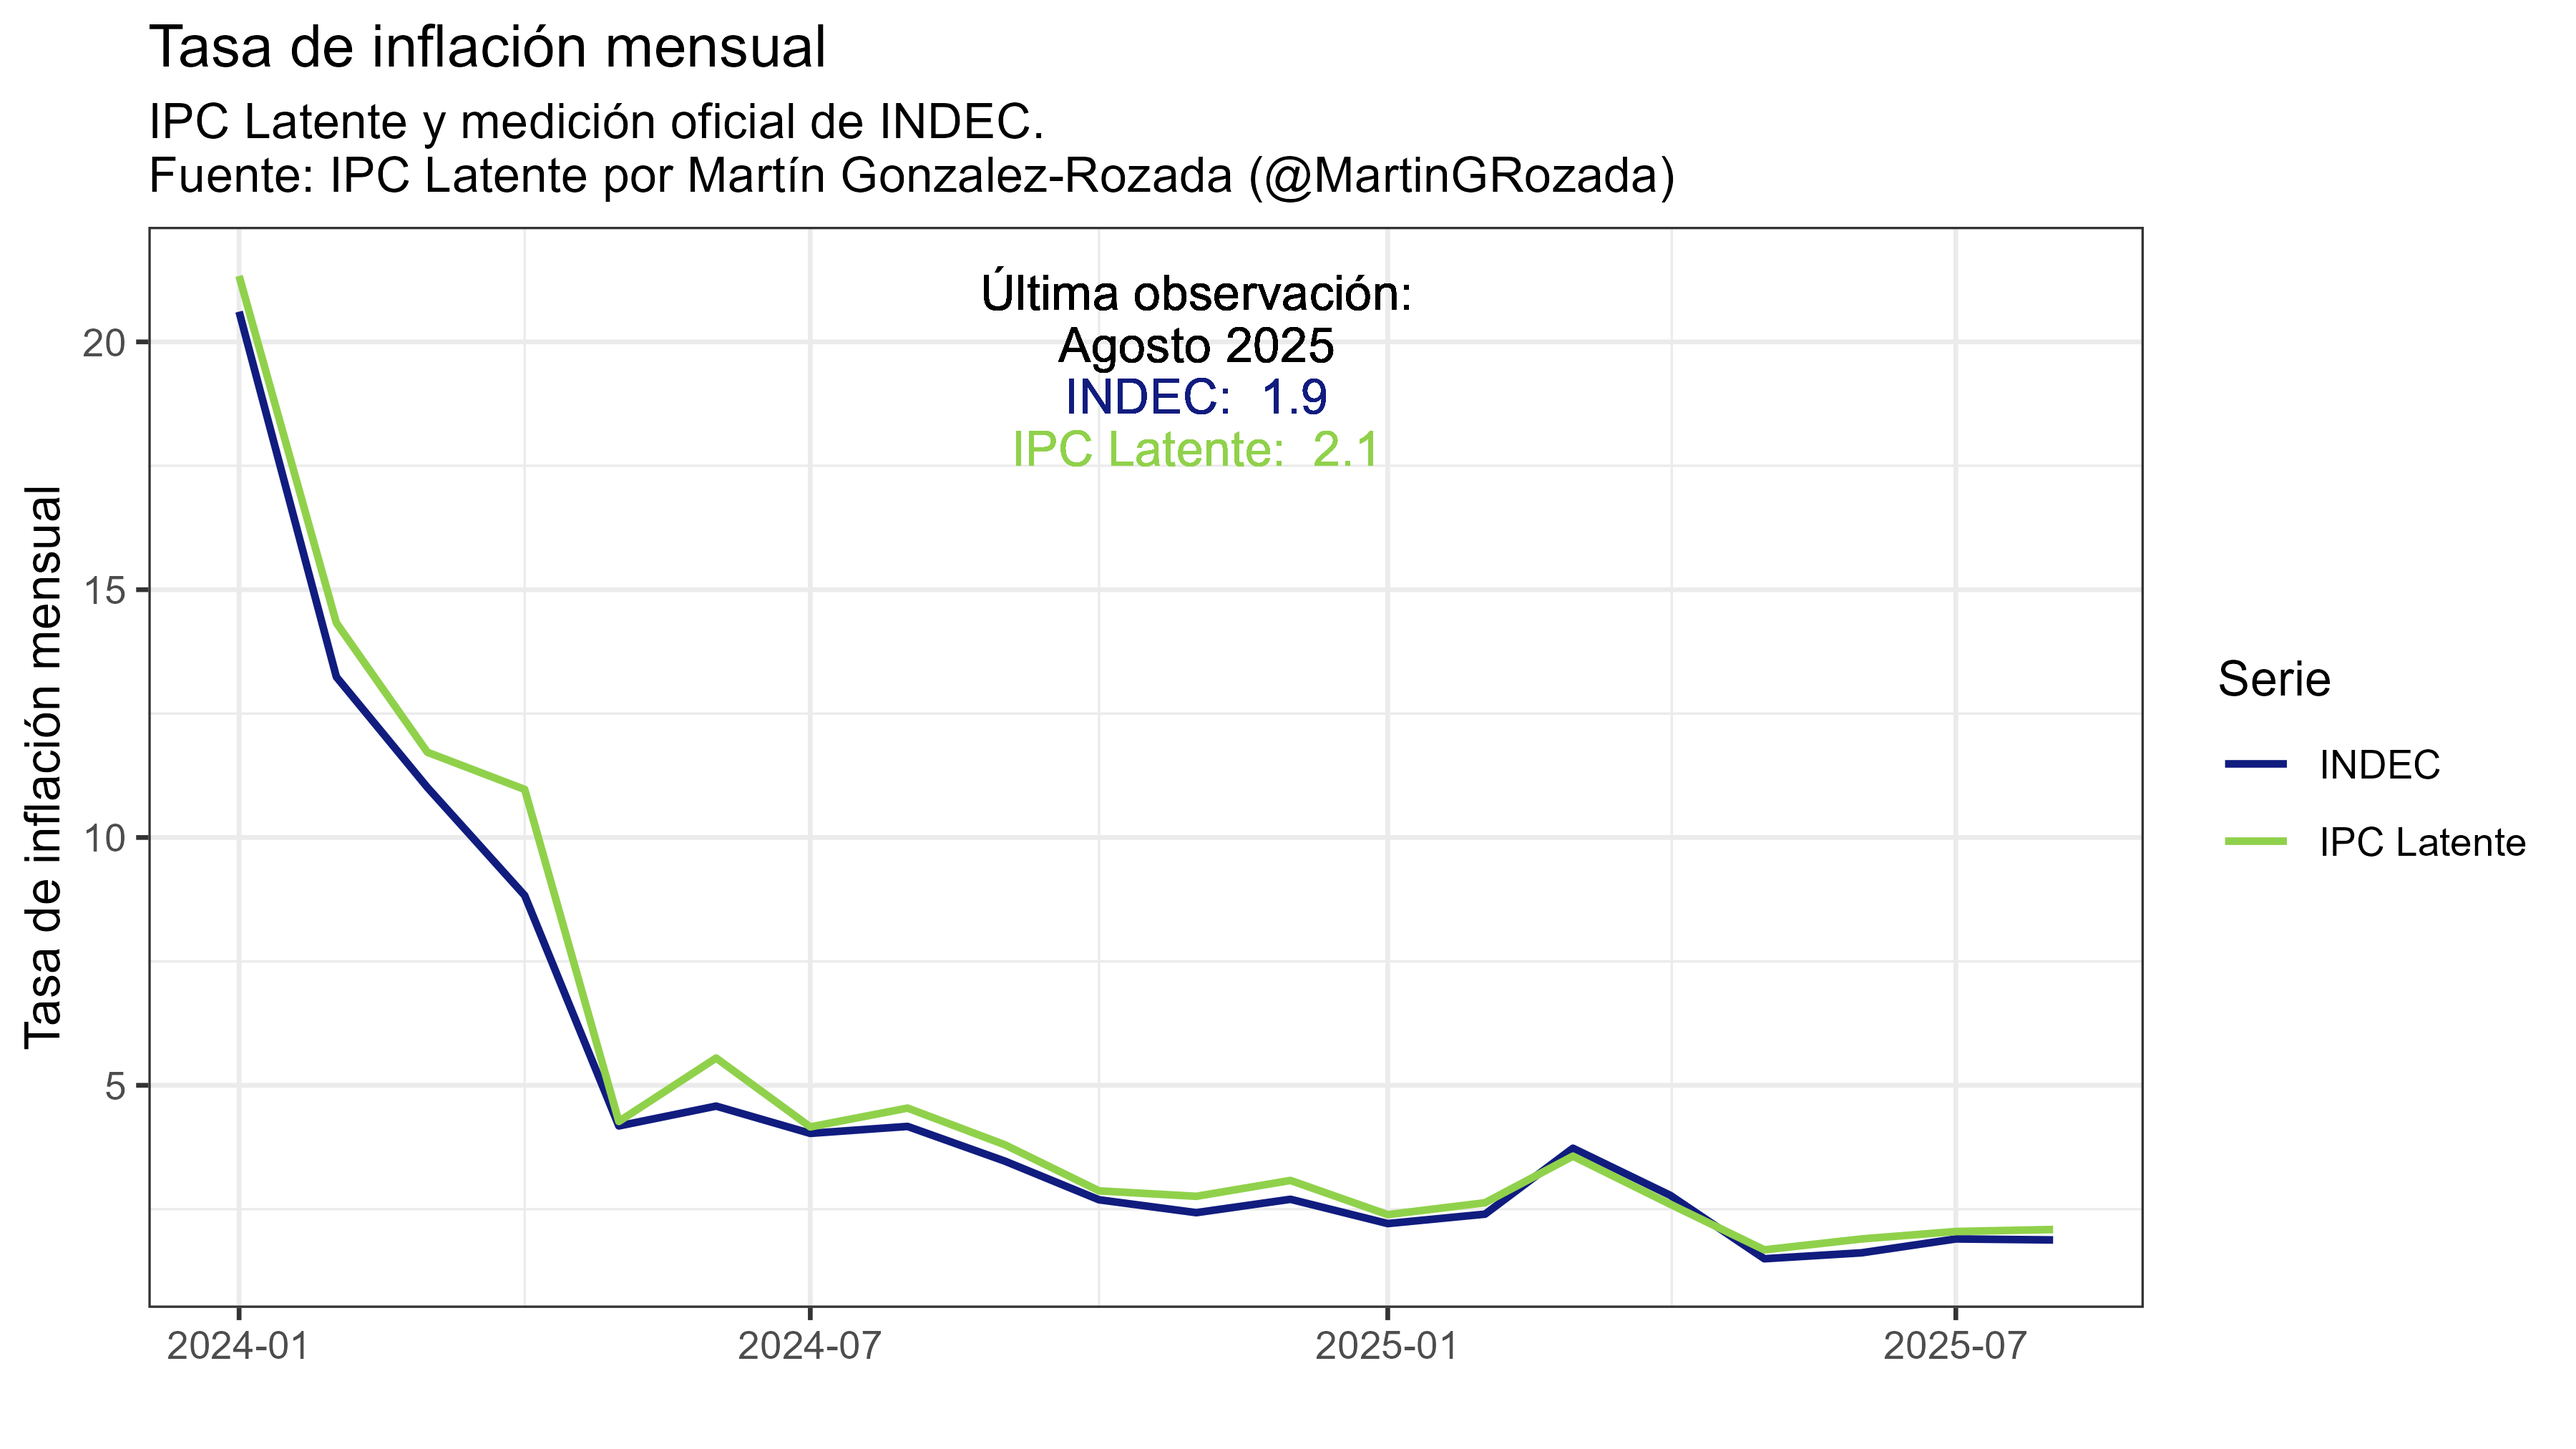
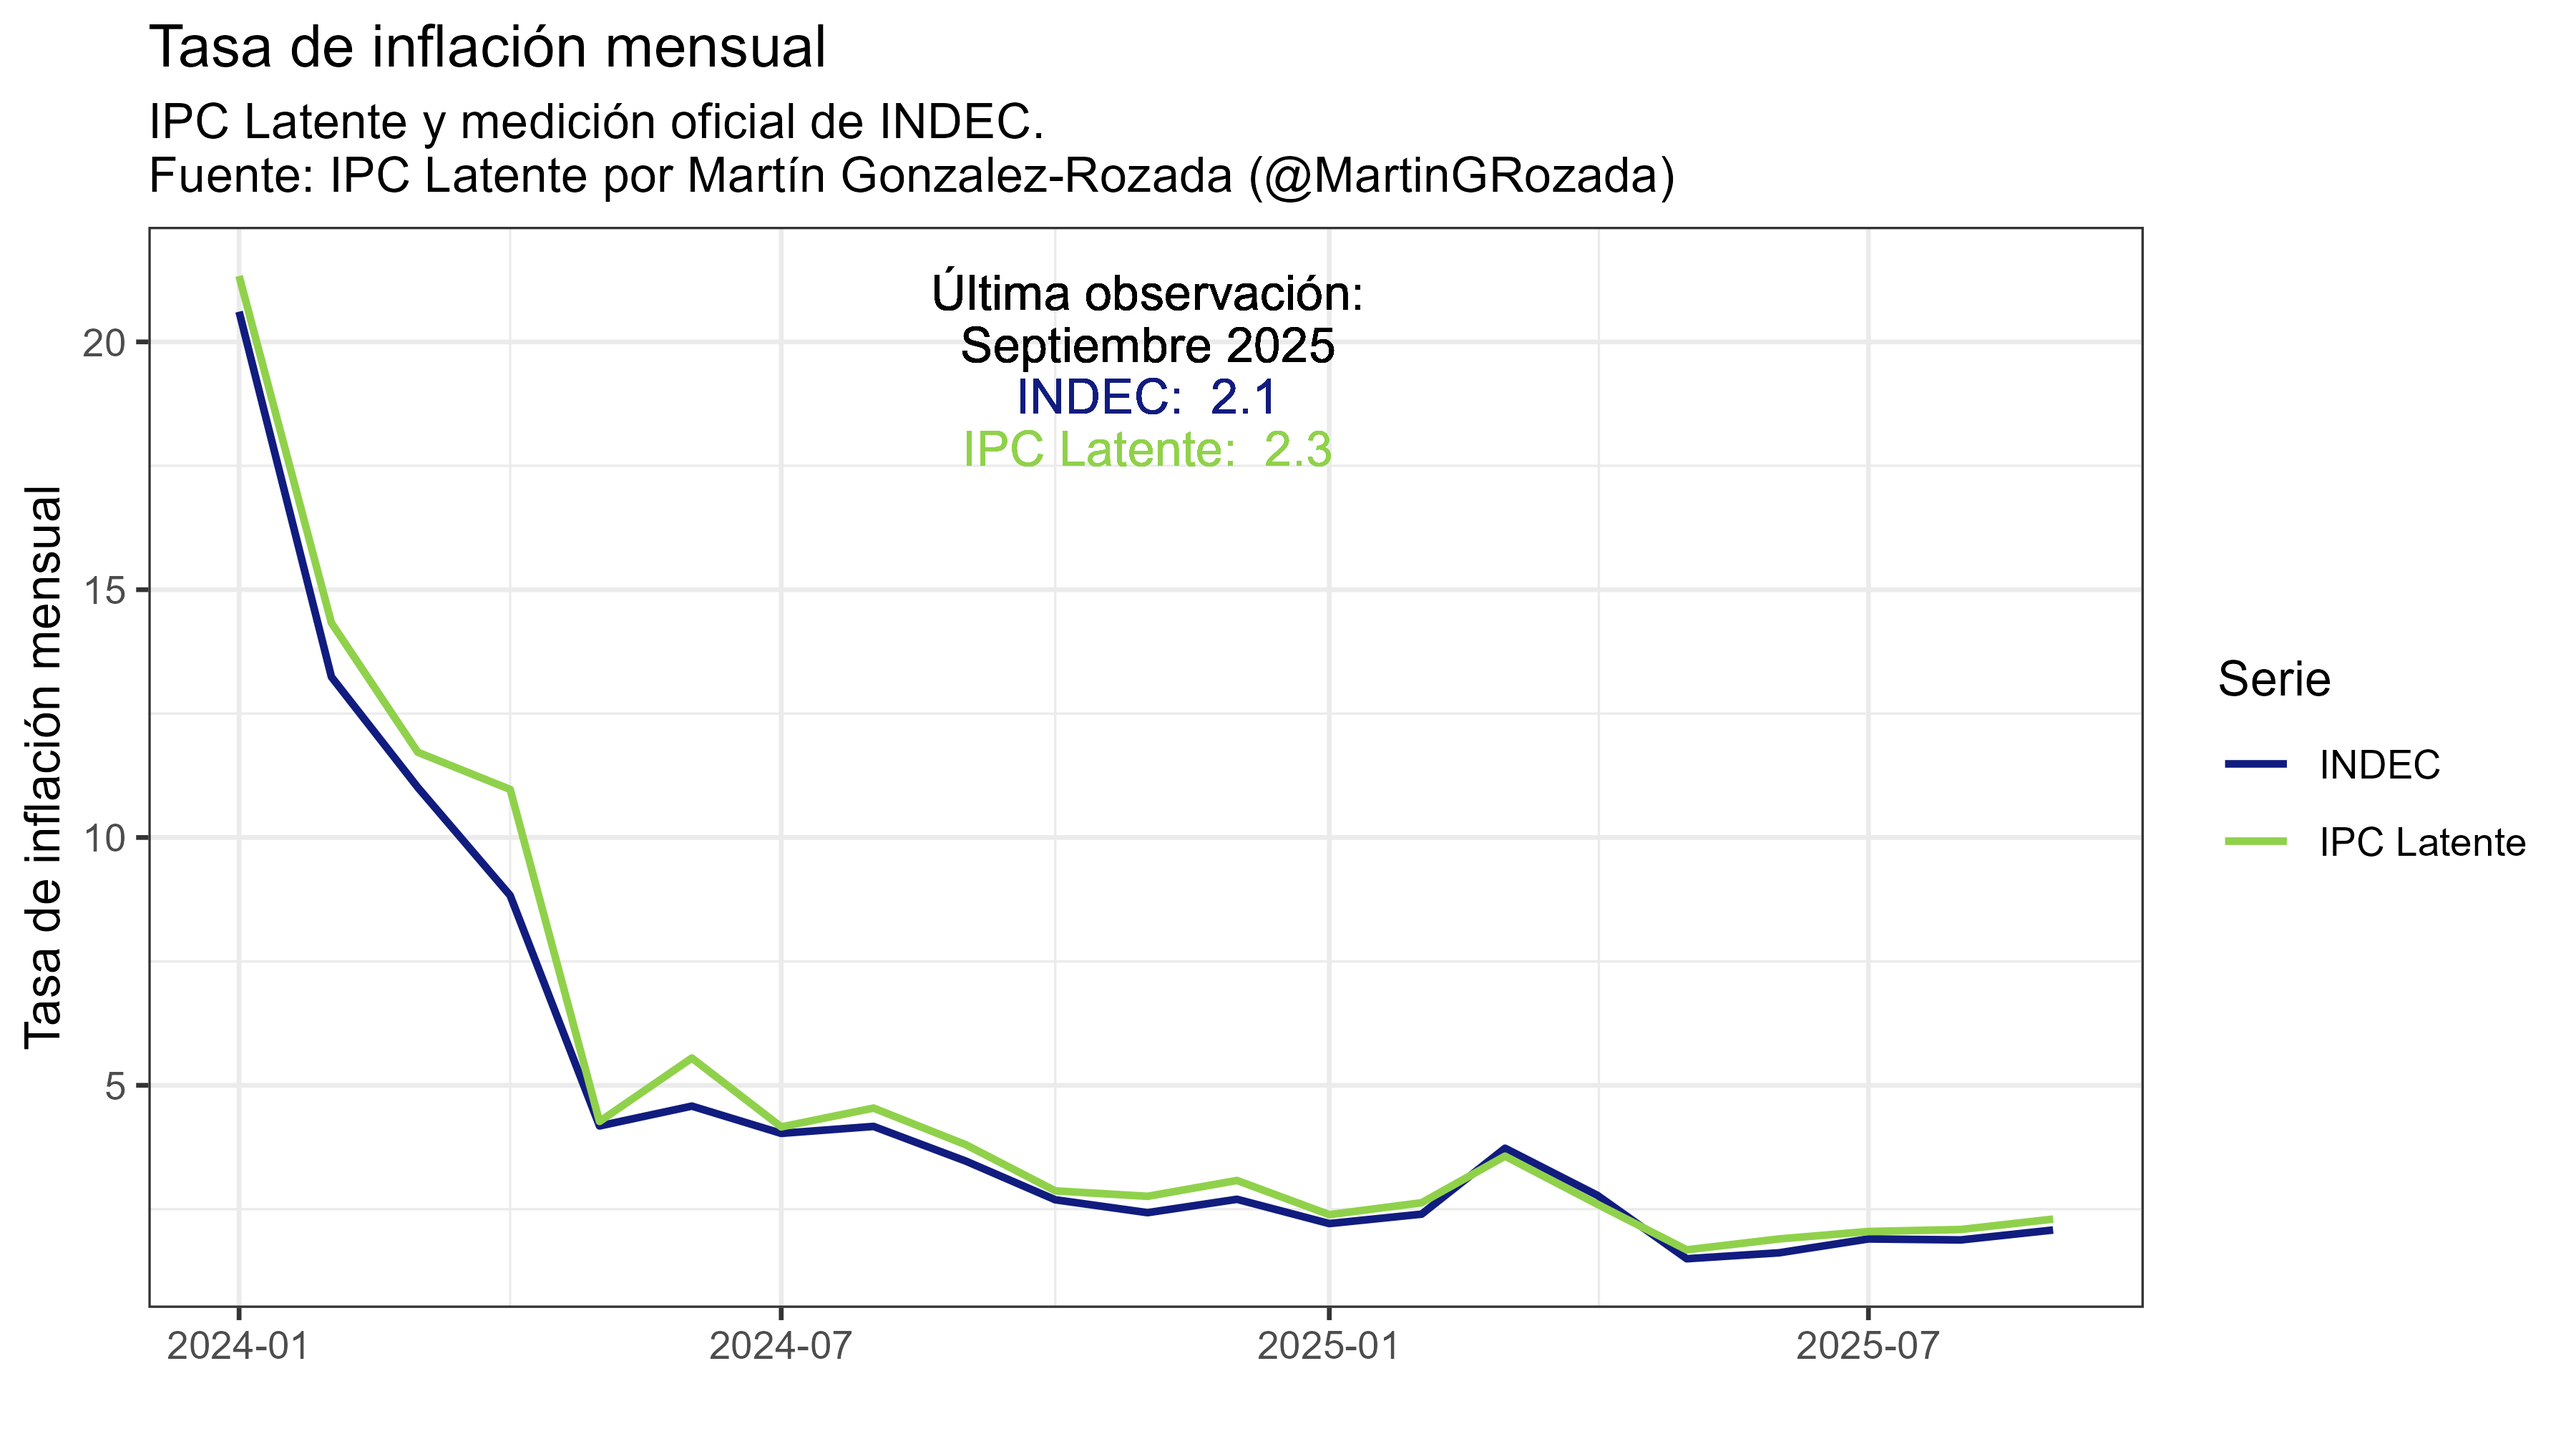
2025-10

diff --git a/_pages/ipclatente.md b/_pages/ipclatente.md
@@ -5,11 +5,11 @@ header:
   image: /assets/images/header-git4.jpg
 ---
 
-## RESULTADOS AGOSTO 2025
+## RESULTADOS SEPTIEMBRE 2025
 
-El nivel general del Índice de Precios al Consumidor Latente (IPCL) aumentó un 2.1 por ciento en agosto, luego de haber aumentado un 2.1 por ciento en julio impulsado por el aumento de precios de las divisiones de Vivienda, agua, electricidad, gas y otros combustibles y Transporte, que explicaron alrededor del 25 por ciento de la inflación cada una (Cuadros 1 y 2 del informe). En comparación, la tasa de inflación mensual oficial publicada por el INDEC fue de 1.9 por ciento (Cuadro 1 y Figura 1 del informe). 
+El nivel general del Índice de Precios al Consumidor Latente (IPCL) aumentó un 2.3 por ciento en septiembre, luego de haber aumentado un 2.1 por ciento en agosto impulsado por el aumento de precios de las divisiones de Vivienda, agua, electricidad, gas y otros combustibles y Transporte, que explicaron alrededor del 27 y 19 por ciento de la inflación respectivamente (Cuadros 1 y 2 del informe). En comparación, la tasa de inflación mensual oficial publicada por el INDEC fue de 2.1 por ciento (Cuadro 1 y Figura 1 del informe). 
 
-Durante los últimos 12 meses, la inflación interanual fue de 36.3 por ciento, comparado con el valor de 33.6 por ciento en los datos oficiales (Cuadro 1 y Figura 2 del informe).
+Durante los últimos 12 meses, la inflación interanual fue de 34.4 por ciento, comparado con el valor de 31.8 por ciento en los datos oficiales (Cuadro 1 y Figura 2 del informe).
 
 
 ***Para leer el informe completo, haga click [aquí](https://mrozada.github.io/inflacionlatente/).***
@@ -18,6 +18,8 @@ Durante los últimos 12 meses, la inflación interanual fue de 36.3 por ciento, 
 
 
 ***Links a informes en PDF***
+
+[Septiembre 2025](https://github.com/mrozada/mrozada.github.io/blob/master/assets/pdf/INFLACION%20LATENTE%20-%202025-09.pdf)
 
 [Agosto 2025](https://github.com/mrozada/mrozada.github.io/blob/master/assets/pdf/INFLACION%20LATENTE%20-%202025-08.pdf)
 
